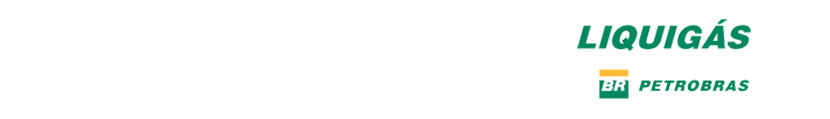
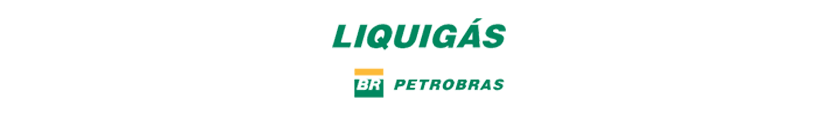
Iniciando fase final do site

diff --git a/index.html b/index.html
@@ -33,7 +33,7 @@
     <![endif]-->
 
     <!--icone do navegador -->
-    <link rel="shortcut icon" href="favicon.ico" type="image/x-icon" >
+    <link rel="shortcut icon" href="favicon.ico" type="image/x-icon">
 </head>
 
 <body id="page-top" class="index">
@@ -68,9 +68,9 @@
                 <li>
                     <a class="page-scroll" href="#services">Serviços</a>
                 </li>
-                <li>
-                    <a class="page-scroll" href="#promotion">Promoções</a>
-                </li>
+                <!--<li>-->
+                <!--<a class="page-scroll" href="#promotion">Promoções</a>-->
+                <!--</li>-->
                 <li>
                     <a class="page-scroll" href="#contact">Contato</a>
                 </li>
@@ -85,23 +85,27 @@
 <header>
     <div class="container">
         <div class="intro-text col-md-12">
-
             <div class="col-md-4">
                 <img src="img/boneco.png" class="img-responsive" id="BonecoLiquigas">
+                <div>&nbsp;</div>
+                <div>&nbsp;</div>
+                <div>&nbsp;</div>
+                <div>&nbsp;</div>
+                <img src="img/liquigas.png" class="img-responsive">
             </div>
             <div class="col-md-8">
                 <div class="intro-lead-in">(61) 3355-6655</div>
                 <div class="intro-lead-in">(61) 3354-1480</div>
                 <div class="intro-lead-in">(61) 3354-3440</div>
-                <div class="intro-heading">Entregas em Taguatinga Norte e Sul nas quadras cna, csb, qsa, qsb e qsc.
-                </div>
-                <a href="#localization" class="page-scroll btn btn-xl">CND 1 LOTE 4 - PRAÇA DO BICALHO<br>TAGUATINGA
-                    NORTE - DF </a>
-
+                <div class="intro-heading">Entregas em Taguatinga Norte e Sul nas quadras cna, csb, qsa, qsb e qsc.</div>
                 <h1>&nbsp;</h1>
                 <a href="#portfolio" class="page-scroll btn btn-xl">CONHEÇA MAIS</a>
             </div>
 
+        </div>
+        <div class="col-md-12">
+            <div><a href="#contact" class="page-scroll btn btn-xl">CND 1 LOTE 4<br>PRAÇA DO BICALHO<br>TAGUATINGA
+                NORTE - DF </a></div>
         </div>
     </div>
 </header>
@@ -277,7 +281,7 @@
                     </span>
                 <h4 class="service-heading">Entrega Rápida</h4>
 
-                <p class="text-muted">Entregamos mais rápida da região.</p>
+                <p class="text-muted">Entregaa mais rápida da região.</p>
             </div>
             <div class="col-md-4">
                     <span class="fa-stack fa-4x">
@@ -303,31 +307,31 @@
 </section>
 
 
-<!-- Promotion Section -->
-<section id="promotion" class="bg-light-gray">
-    <div class="container">
-        <div class="row">
-            <div class="col-lg-12 text-center">
-                <h2 class="section-heading">Promoções</h2>
+<!--&lt;!&ndash; Promotion Section &ndash;&gt;-->
+<!--<section id="promotion" class="bg-light-gray">-->
+<!--<div class="container">-->
+<!--<div class="row">-->
+<!--<div class="col-lg-12 text-center">-->
+<!--<h2 class="section-heading">Promoções</h2>-->
 
-                <h2 class="section-subheading text-muted">&nbsp;</h2>
-            </div>
-        </div>
-        <div class="row">
-            <div class="col-md-12 text-center">
-                <a href="http://www.meubotijaodasorte.com.br/" target="_blank"> <img class="img-responsive img-centered"
-                                                                                     src="img/promocao.png"></a>
-            </div>
-        </div>
-        <h1>&nbsp;</h1>
+<!--<h2 class="section-subheading text-muted">&nbsp;</h2>-->
+<!--</div>-->
+<!--</div>-->
+<!--<div class="row">-->
+<!--<div class="col-md-12 text-center">-->
+<!--<a href="http://www.meubotijaodasorte.com.br/" target="_blank"> <img class="img-responsive img-centered"-->
+<!--src="img/promocao.png"></a>-->
+<!--</div>-->
+<!--</div>-->
+<!--<h1>&nbsp;</h1>-->
 
-        <div class="row">
-            <div class="col-md-12 text-center">
-                <a href="http://www.meubotijaodasorte.com.br/" class="btn btn-xl" target="_blank">SAIBA MAIS</a>
-            </div>
-        </div>
-    </div>
-</section>
+<!--<div class="row">-->
+<!--<div class="col-md-12 text-center">-->
+<!--<a href="http://www.meubotijaodasorte.com.br/" class="btn btn-xl" target="_blank">SAIBA MAIS</a>-->
+<!--</div>-->
+<!--</div>-->
+<!--</div>-->
+<!--</section>-->
 
 
 <!-- Clients Aside -->
@@ -357,7 +361,6 @@
 <!--</div>-->
 <!--</div>-->
 <!--</aside>-->
-
 
 
 <section id="contact">
@@ -425,7 +428,7 @@
     <div class="container">
         <div class="row">
             <div class="col-md-4">
-                <span class="copyright">Copyright &copy; Helder Fernandes 2014</span>
+                <img src="img/logo-liquigas.png" width="120">
             </div>
             <div class="col-md-4">
                 <span class="copyright">
@@ -434,17 +437,25 @@
                 </span>
 
             </div>
-
             <div class="col-md-4">
                 <ul class="list-inline social-buttons">
-                    <!--<li><a href="#"><i class="fa fa-twitter text-success"></i></a>-->
-                    <!--</li>-->
-                    <li><a href="#"><i class="fa fa-facebook text-success"></i></a>
-                    </li>
-                    <!--<li><a href="#"><i class="fa fa-linkedin text-success"></i></a>-->
-                    <!--</li>-->
+                    <li><a href="https://www.facebook.com/helderfsilva" class="copyright"><i
+                            class="fa fa-facebook text-success"></i></a></li>
+                    <li>Desenvolvido por Helder Fernandes</li>
                 </ul>
             </div>
+
+
+            <!--<div class="col-md-4">-->
+            <!--<ul class="list-inline social-buttons">-->
+            <!--&lt;!&ndash;<li><a href="#"><i class="fa fa-twitter text-success"></i></a>&ndash;&gt;-->
+            <!--&lt;!&ndash;</li>&ndash;&gt;-->
+            <!--<li><a href="#"><i class="fa fa-facebook text-success"></i></a>-->
+            <!--</li>-->
+            <!--&lt;!&ndash;<li><a href="#"><i class="fa fa-linkedin text-success"></i></a>&ndash;&gt;-->
+            <!--&lt;!&ndash;</li>&ndash;&gt;-->
+            <!--</ul>-->
+            <!--</div>-->
             <!--<div class="col-md-4">-->
             <!--<ul class="list-inline quicklinks">-->
             <!--<li><a href="#">Privacy Policy</a>-->

diff --git a/css/agency.css b/css/agency.css
@@ -267,7 +267,7 @@ header {
     text-align: center;
     color: #fff;
     background-attachment: scroll;
-    background-image: url(../img/header-bg.jpg);
+    background-image: url(../img/header-bg.png);
     background-position: center center;
     background-repeat: none;
     -webkit-background-size: cover;

diff --git a/mail/contact_me.php b/mail/contact_me.php
@@ -16,10 +16,10 @@ $phone = $_POST['phone'];
 $message = $_POST['message'];
 	
 // Create the email and send the message
-$to = 'yourname@yourdomain.com'; // Add your email address inbetween the '' replacing yourname@yourdomain.com - This is where the form will send a message to.
-$email_subject = "Website Contact Form:  $name";
-$email_body = "You have received a new message from your website contact form.\n\n"."Here are the details:\n\nName: $name\n\nEmail: $email_address\n\nPhone: $phone\n\nMessage:\n$message";
-$headers = "From: noreply@yourdomain.com\n"; // This is the email address the generated message will be from. We recommend using something like noreply@yourdomain.com.
+$to = 'teixeiragastaguatinga@gmail.com'; // Add your email address inbetween the '' replacing yourname@yourdomain.com - This is where the form will send a message to.
+$email_subject = "Contato pelo Site:  $name";
+$email_body = "Você recebeu uma nova mensagem pela página de contatos do site.\n\n"."Detalhes:\n\nNome: $name\n\nEmail: $email_address\n\nTelefone: $phone\n\nMensagem:\n$message";
+$headers = "From: noreply@teixeragas.com.br\n"; // This is the email address the generated message will be from. We recommend using something like noreply@yourdomain.com.
 $headers .= "Reply-To: $email_address";	
 mail($to,$email_subject,$email_body,$headers);
 return true;			
